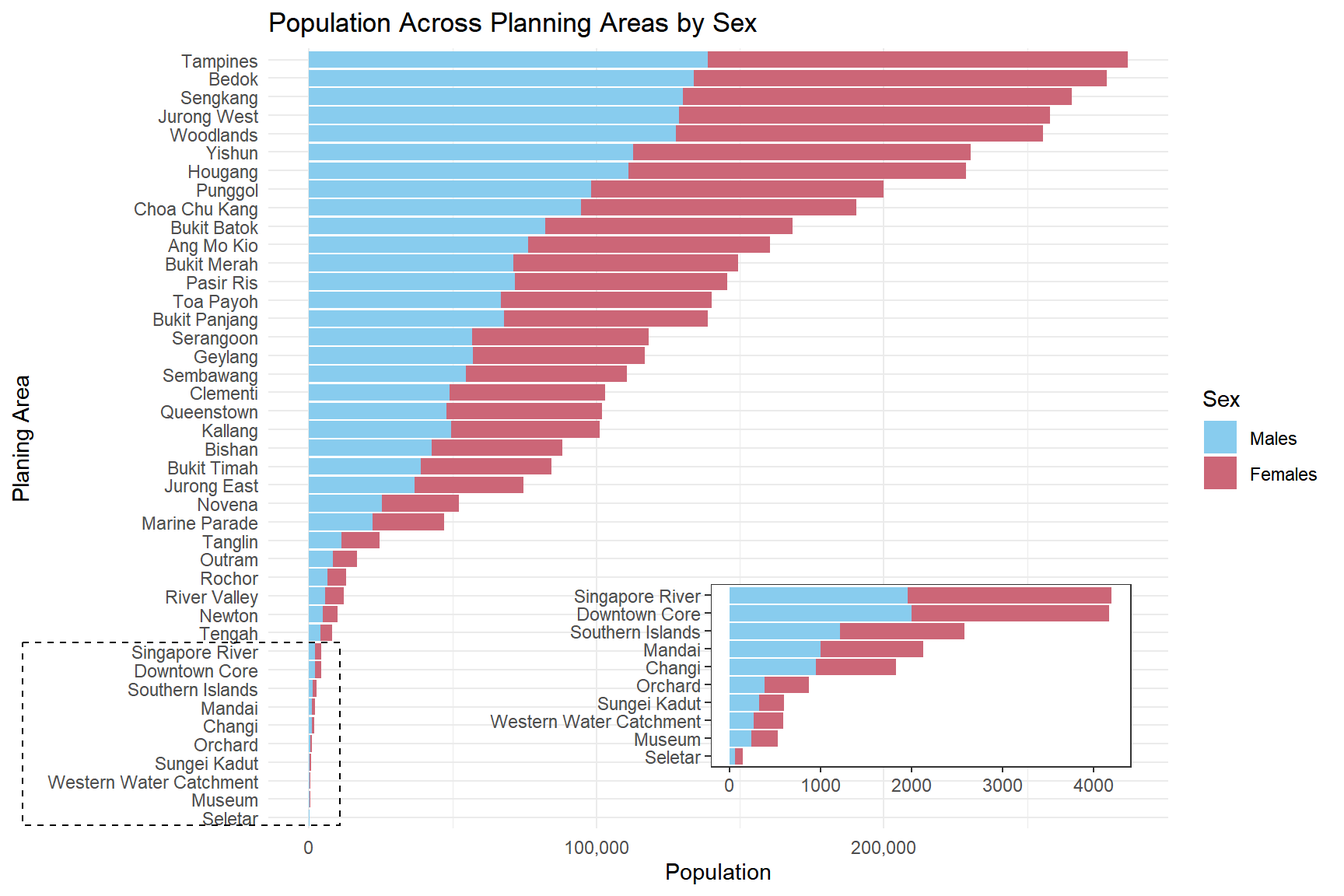
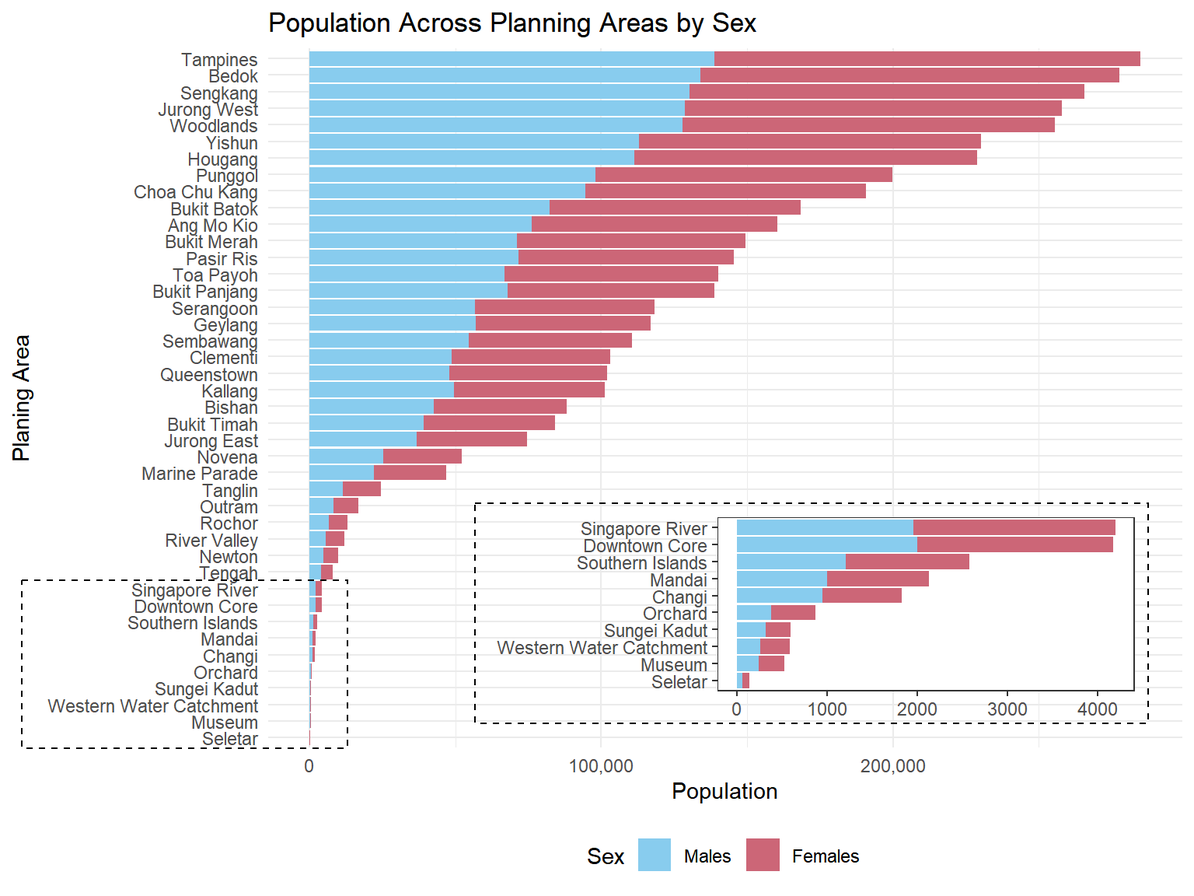
edit

diff --git a/_site/Take-home_Ex/Take-home_Ex01/Take-home_Ex01.html b/_site/Take-home_Ex/Take-home_Ex01/Take-home_Ex01.html
@@ -949,7 +949,7 @@ Code
 <div class="cell-output-display">
 <div>
 <figure class="figure">
-<p><img src="Take-home_Ex01_files/figure-html/unnamed-chunk-13-1.png" class="img-fluid figure-img" width="864"></p>
+<p><img src="Take-home_Ex01_files/figure-html/unnamed-chunk-13-1.png" class="img-fluid figure-img" width="768"></p>
 </figure>
 </div>
 </div>
@@ -986,41 +986,45 @@ Code
 <span id="cb15-27"><a href="#cb15-27" aria-hidden="true" tabindex="-1"></a>    ),</span>
 <span id="cb15-28"><a href="#cb15-28" aria-hidden="true" tabindex="-1"></a>    <span class="at">breaks =</span> <span class="fu">c</span>(<span class="st">"Males"</span>, <span class="st">"Females"</span>)</span>
 <span id="cb15-29"><a href="#cb15-29" aria-hidden="true" tabindex="-1"></a>  ) <span class="sc">+</span></span>
-<span id="cb15-30"><a href="#cb15-30" aria-hidden="true" tabindex="-1"></a>  <span class="fu">scale_y_continuous</span>(<span class="at">labels =</span> scales<span class="sc">::</span>comma)</span>
-<span id="cb15-31"><a href="#cb15-31" aria-hidden="true" tabindex="-1"></a></span>
-<span id="cb15-32"><a href="#cb15-32" aria-hidden="true" tabindex="-1"></a>demography_sex_bottom10 <span class="ot">&lt;-</span> demography_sex <span class="sc">%&gt;%</span></span>
-<span id="cb15-33"><a href="#cb15-33" aria-hidden="true" tabindex="-1"></a>  <span class="fu">filter</span>(PA <span class="sc">%in%</span> <span class="fu">head</span>(pa_order, <span class="dv">10</span>))</span>
+<span id="cb15-30"><a href="#cb15-30" aria-hidden="true" tabindex="-1"></a>  <span class="fu">scale_y_continuous</span>(<span class="at">labels =</span> scales<span class="sc">::</span>comma) <span class="sc">+</span></span>
+<span id="cb15-31"><a href="#cb15-31" aria-hidden="true" tabindex="-1"></a>  <span class="fu">theme</span>(</span>
+<span id="cb15-32"><a href="#cb15-32" aria-hidden="true" tabindex="-1"></a>    <span class="at">legend.position =</span> <span class="st">"bottom"</span></span>
+<span id="cb15-33"><a href="#cb15-33" aria-hidden="true" tabindex="-1"></a>  )</span>
 <span id="cb15-34"><a href="#cb15-34" aria-hidden="true" tabindex="-1"></a></span>
-<span id="cb15-35"><a href="#cb15-35" aria-hidden="true" tabindex="-1"></a>s2 <span class="ot">&lt;-</span> <span class="fu">ggplot</span>(<span class="at">data =</span> demography_sex_bottom10, </span>
-<span id="cb15-36"><a href="#cb15-36" aria-hidden="true" tabindex="-1"></a>       <span class="fu">aes</span>(<span class="at">x =</span> PA, <span class="at">y =</span> Pop, <span class="at">fill =</span> Sex)) <span class="sc">+</span></span>
-<span id="cb15-37"><a href="#cb15-37" aria-hidden="true" tabindex="-1"></a>  <span class="fu">geom_bar</span>(<span class="at">stat =</span> <span class="st">"identity"</span>, <span class="at">position =</span> <span class="st">"stack"</span>) <span class="sc">+</span></span>
-<span id="cb15-38"><a href="#cb15-38" aria-hidden="true" tabindex="-1"></a>  <span class="fu">coord_flip</span>() <span class="sc">+</span></span>
-<span id="cb15-39"><a href="#cb15-39" aria-hidden="true" tabindex="-1"></a>  <span class="fu">theme_test</span>() <span class="sc">+</span></span>
-<span id="cb15-40"><a href="#cb15-40" aria-hidden="true" tabindex="-1"></a>  <span class="fu">labs</span>(</span>
-<span id="cb15-41"><a href="#cb15-41" aria-hidden="true" tabindex="-1"></a>    <span class="at">x =</span> <span class="cn">NULL</span>,</span>
-<span id="cb15-42"><a href="#cb15-42" aria-hidden="true" tabindex="-1"></a>    <span class="at">y =</span> <span class="cn">NULL</span></span>
-<span id="cb15-43"><a href="#cb15-43" aria-hidden="true" tabindex="-1"></a>  ) <span class="sc">+</span></span>
-<span id="cb15-44"><a href="#cb15-44" aria-hidden="true" tabindex="-1"></a>  <span class="fu">scale_fill_manual</span>(</span>
-<span id="cb15-45"><a href="#cb15-45" aria-hidden="true" tabindex="-1"></a>    <span class="at">values =</span> <span class="fu">c</span>(</span>
-<span id="cb15-46"><a href="#cb15-46" aria-hidden="true" tabindex="-1"></a>      <span class="st">"Males"</span> <span class="ot">=</span> <span class="st">"#88CCEE"</span>,</span>
-<span id="cb15-47"><a href="#cb15-47" aria-hidden="true" tabindex="-1"></a>      <span class="st">"Females"</span> <span class="ot">=</span> <span class="st">"#CC6677"</span></span>
-<span id="cb15-48"><a href="#cb15-48" aria-hidden="true" tabindex="-1"></a>    ),</span>
-<span id="cb15-49"><a href="#cb15-49" aria-hidden="true" tabindex="-1"></a>    <span class="at">breaks =</span> <span class="fu">c</span>(<span class="st">"Males"</span>, <span class="st">"Females"</span>)</span>
-<span id="cb15-50"><a href="#cb15-50" aria-hidden="true" tabindex="-1"></a>  ) <span class="sc">+</span></span>
-<span id="cb15-51"><a href="#cb15-51" aria-hidden="true" tabindex="-1"></a>  <span class="fu">theme</span>(</span>
-<span id="cb15-52"><a href="#cb15-52" aria-hidden="true" tabindex="-1"></a>    <span class="at">legend.position =</span> <span class="st">"none"</span>,</span>
-<span id="cb15-53"><a href="#cb15-53" aria-hidden="true" tabindex="-1"></a>    <span class="at">plot.background =</span> <span class="fu">element_rect</span>(<span class="at">fill =</span> <span class="st">"transparent"</span>, <span class="at">colour =</span> <span class="cn">NA</span>)</span>
-<span id="cb15-54"><a href="#cb15-54" aria-hidden="true" tabindex="-1"></a>  )</span>
-<span id="cb15-55"><a href="#cb15-55" aria-hidden="true" tabindex="-1"></a></span>
-<span id="cb15-56"><a href="#cb15-56" aria-hidden="true" tabindex="-1"></a>zoom_rect <span class="ot">&lt;-</span> <span class="fu">ggplot</span>() <span class="sc">+</span></span>
-<span id="cb15-57"><a href="#cb15-57" aria-hidden="true" tabindex="-1"></a>  <span class="fu">geom_rect</span>(<span class="fu">aes</span>(<span class="at">xmin =</span> <span class="dv">0</span>, <span class="at">xmax =</span> <span class="dv">1</span>, <span class="at">ymin =</span> <span class="dv">0</span>, <span class="at">ymax =</span> <span class="dv">1</span>),</span>
-<span id="cb15-58"><a href="#cb15-58" aria-hidden="true" tabindex="-1"></a>            <span class="at">fill =</span> <span class="cn">NA</span>, <span class="at">color =</span> <span class="st">"black"</span>, <span class="at">linetype =</span> <span class="st">"dashed"</span>) <span class="sc">+</span></span>
-<span id="cb15-59"><a href="#cb15-59" aria-hidden="true" tabindex="-1"></a>  <span class="fu">theme_void</span>()</span>
-<span id="cb15-60"><a href="#cb15-60" aria-hidden="true" tabindex="-1"></a></span>
-<span id="cb15-61"><a href="#cb15-61" aria-hidden="true" tabindex="-1"></a><span class="fu">ggdraw</span>() <span class="sc">+</span></span>
-<span id="cb15-62"><a href="#cb15-62" aria-hidden="true" tabindex="-1"></a>  <span class="fu">draw_plot</span>(s1, <span class="dv">0</span>, <span class="dv">0</span>, <span class="dv">1</span>, <span class="dv">1</span>) <span class="sc">+</span></span>
-<span id="cb15-63"><a href="#cb15-63" aria-hidden="true" tabindex="-1"></a>  <span class="fu">draw_plot</span>(s2, <span class="fl">0.35</span>, <span class="fl">0.1</span>, <span class="fl">0.5</span>, <span class="fl">0.26</span>) <span class="sc">+</span></span>
-<span id="cb15-64"><a href="#cb15-64" aria-hidden="true" tabindex="-1"></a>  <span class="fu">draw_plot</span>(zoom_rect, <span class="fl">0.005</span>, <span class="fl">0.068</span>, <span class="fl">0.26</span>, <span class="fl">0.225</span>)</span></code><button title="Copy to Clipboard" class="code-copy-button"><i class="bi"></i></button></pre></div>
+<span id="cb15-35"><a href="#cb15-35" aria-hidden="true" tabindex="-1"></a>demography_sex_bottom10 <span class="ot">&lt;-</span> demography_sex <span class="sc">%&gt;%</span></span>
+<span id="cb15-36"><a href="#cb15-36" aria-hidden="true" tabindex="-1"></a>  <span class="fu">filter</span>(PA <span class="sc">%in%</span> <span class="fu">head</span>(pa_order, <span class="dv">10</span>))</span>
+<span id="cb15-37"><a href="#cb15-37" aria-hidden="true" tabindex="-1"></a></span>
+<span id="cb15-38"><a href="#cb15-38" aria-hidden="true" tabindex="-1"></a>s2 <span class="ot">&lt;-</span> <span class="fu">ggplot</span>(<span class="at">data =</span> demography_sex_bottom10, </span>
+<span id="cb15-39"><a href="#cb15-39" aria-hidden="true" tabindex="-1"></a>       <span class="fu">aes</span>(<span class="at">x =</span> PA, <span class="at">y =</span> Pop, <span class="at">fill =</span> Sex)) <span class="sc">+</span></span>
+<span id="cb15-40"><a href="#cb15-40" aria-hidden="true" tabindex="-1"></a>  <span class="fu">geom_bar</span>(<span class="at">stat =</span> <span class="st">"identity"</span>, <span class="at">position =</span> <span class="st">"stack"</span>) <span class="sc">+</span></span>
+<span id="cb15-41"><a href="#cb15-41" aria-hidden="true" tabindex="-1"></a>  <span class="fu">coord_flip</span>() <span class="sc">+</span></span>
+<span id="cb15-42"><a href="#cb15-42" aria-hidden="true" tabindex="-1"></a>  <span class="fu">theme_test</span>() <span class="sc">+</span></span>
+<span id="cb15-43"><a href="#cb15-43" aria-hidden="true" tabindex="-1"></a>  <span class="fu">labs</span>(</span>
+<span id="cb15-44"><a href="#cb15-44" aria-hidden="true" tabindex="-1"></a>    <span class="at">x =</span> <span class="cn">NULL</span>,</span>
+<span id="cb15-45"><a href="#cb15-45" aria-hidden="true" tabindex="-1"></a>    <span class="at">y =</span> <span class="cn">NULL</span></span>
+<span id="cb15-46"><a href="#cb15-46" aria-hidden="true" tabindex="-1"></a>  ) <span class="sc">+</span></span>
+<span id="cb15-47"><a href="#cb15-47" aria-hidden="true" tabindex="-1"></a>  <span class="fu">scale_fill_manual</span>(</span>
+<span id="cb15-48"><a href="#cb15-48" aria-hidden="true" tabindex="-1"></a>    <span class="at">values =</span> <span class="fu">c</span>(</span>
+<span id="cb15-49"><a href="#cb15-49" aria-hidden="true" tabindex="-1"></a>      <span class="st">"Males"</span> <span class="ot">=</span> <span class="st">"#88CCEE"</span>,</span>
+<span id="cb15-50"><a href="#cb15-50" aria-hidden="true" tabindex="-1"></a>      <span class="st">"Females"</span> <span class="ot">=</span> <span class="st">"#CC6677"</span></span>
+<span id="cb15-51"><a href="#cb15-51" aria-hidden="true" tabindex="-1"></a>    ),</span>
+<span id="cb15-52"><a href="#cb15-52" aria-hidden="true" tabindex="-1"></a>    <span class="at">breaks =</span> <span class="fu">c</span>(<span class="st">"Males"</span>, <span class="st">"Females"</span>)</span>
+<span id="cb15-53"><a href="#cb15-53" aria-hidden="true" tabindex="-1"></a>  ) <span class="sc">+</span></span>
+<span id="cb15-54"><a href="#cb15-54" aria-hidden="true" tabindex="-1"></a>  <span class="fu">theme</span>(</span>
+<span id="cb15-55"><a href="#cb15-55" aria-hidden="true" tabindex="-1"></a>    <span class="at">legend.position =</span> <span class="st">"none"</span>,</span>
+<span id="cb15-56"><a href="#cb15-56" aria-hidden="true" tabindex="-1"></a>    <span class="at">plot.background =</span> <span class="fu">element_rect</span>(<span class="at">fill =</span> <span class="st">"transparent"</span>, <span class="at">colour =</span> <span class="cn">NA</span>)</span>
+<span id="cb15-57"><a href="#cb15-57" aria-hidden="true" tabindex="-1"></a>  )</span>
+<span id="cb15-58"><a href="#cb15-58" aria-hidden="true" tabindex="-1"></a></span>
+<span id="cb15-59"><a href="#cb15-59" aria-hidden="true" tabindex="-1"></a>zoom_rect <span class="ot">&lt;-</span> <span class="fu">ggplot</span>() <span class="sc">+</span></span>
+<span id="cb15-60"><a href="#cb15-60" aria-hidden="true" tabindex="-1"></a>  <span class="fu">geom_rect</span>(<span class="fu">aes</span>(<span class="at">xmin =</span> <span class="dv">0</span>, <span class="at">xmax =</span> <span class="dv">1</span>, <span class="at">ymin =</span> <span class="dv">0</span>, <span class="at">ymax =</span> <span class="dv">1</span>),</span>
+<span id="cb15-61"><a href="#cb15-61" aria-hidden="true" tabindex="-1"></a>            <span class="at">fill =</span> <span class="cn">NA</span>, <span class="at">color =</span> <span class="st">"black"</span>, <span class="at">linetype =</span> <span class="st">"dashed"</span>) <span class="sc">+</span></span>
+<span id="cb15-62"><a href="#cb15-62" aria-hidden="true" tabindex="-1"></a>  <span class="fu">theme_void</span>()</span>
+<span id="cb15-63"><a href="#cb15-63" aria-hidden="true" tabindex="-1"></a></span>
+<span id="cb15-64"><a href="#cb15-64" aria-hidden="true" tabindex="-1"></a><span class="fu">ggdraw</span>() <span class="sc">+</span></span>
+<span id="cb15-65"><a href="#cb15-65" aria-hidden="true" tabindex="-1"></a>  <span class="fu">draw_plot</span>(s1, <span class="dv">0</span>, <span class="dv">0</span>, <span class="dv">1</span>, <span class="dv">1</span>) <span class="sc">+</span></span>
+<span id="cb15-66"><a href="#cb15-66" aria-hidden="true" tabindex="-1"></a>  <span class="fu">draw_plot</span>(s2, <span class="fl">0.4</span>, <span class="fl">0.185</span>, <span class="fl">0.56</span>, <span class="fl">0.25</span>) <span class="sc">+</span></span>
+<span id="cb15-67"><a href="#cb15-67" aria-hidden="true" tabindex="-1"></a>  <span class="fu">draw_plot</span>(zoom_rect, <span class="fl">0.005</span>, <span class="fl">0.155</span>, <span class="fl">0.3</span>, <span class="fl">0.206</span>) <span class="sc">+</span></span>
+<span id="cb15-68"><a href="#cb15-68" aria-hidden="true" tabindex="-1"></a>  <span class="fu">draw_plot</span>(zoom_rect, <span class="fl">0.37</span>, <span class="fl">0.18</span>, <span class="fl">0.62</span>, <span class="fl">0.27</span>) <span class="co"># (left , btm, right, top)</span></span></code><button title="Copy to Clipboard" class="code-copy-button"><i class="bi"></i></button></pre></div>
 </div>
 </div>
 </div>
@@ -1231,7 +1235,7 @@ Code
 <div class="cell-output-display">
 <div>
 <figure class="figure">
-<p><img src="Take-home_Ex01_files/figure-html/unnamed-chunk-16-1.png" class="img-fluid figure-img" width="864"></p>
+<p><img src="Take-home_Ex01_files/figure-html/unnamed-chunk-16-1.png" class="img-fluid figure-img" width="768"></p>
 </figure>
 </div>
 </div>
@@ -1261,7 +1265,10 @@ Code
 <span id="cb17-20"><a href="#cb17-20" aria-hidden="true" tabindex="-1"></a>      <span class="st">"Aged"</span> <span class="ot">=</span> <span class="st">"#AA4499"</span></span>
 <span id="cb17-21"><a href="#cb17-21" aria-hidden="true" tabindex="-1"></a>    ),</span>
 <span id="cb17-22"><a href="#cb17-22" aria-hidden="true" tabindex="-1"></a>    <span class="at">breaks =</span> <span class="fu">c</span>(<span class="st">"Young"</span>, <span class="st">"Economically_Active"</span>, <span class="st">"Aged"</span>)</span>
-<span id="cb17-23"><a href="#cb17-23" aria-hidden="true" tabindex="-1"></a>  )</span></code><button title="Copy to Clipboard" class="code-copy-button"><i class="bi"></i></button></pre></div>
+<span id="cb17-23"><a href="#cb17-23" aria-hidden="true" tabindex="-1"></a>  ) <span class="sc">+</span></span>
+<span id="cb17-24"><a href="#cb17-24" aria-hidden="true" tabindex="-1"></a>  <span class="fu">theme</span>(</span>
+<span id="cb17-25"><a href="#cb17-25" aria-hidden="true" tabindex="-1"></a>    <span class="at">legend.position =</span> <span class="st">"bottom"</span></span>
+<span id="cb17-26"><a href="#cb17-26" aria-hidden="true" tabindex="-1"></a>  )</span></code><button title="Copy to Clipboard" class="code-copy-button"><i class="bi"></i></button></pre></div>
 </div>
 </div>
 </div>
@@ -1907,7 +1914,7 @@ Code
 <div class="cell-output-display">
 <div>
 <figure class="figure">
-<p><img src="Take-home_Ex01_files/figure-html/unnamed-chunk-27-1.png" class="img-fluid figure-img" width="864"></p>
+<p><img src="Take-home_Ex01_files/figure-html/unnamed-chunk-27-1.png" class="img-fluid figure-img" width="768"></p>
 </figure>
 </div>
 </div>
@@ -1935,35 +1942,39 @@ Code
 <span id="cb32-18"><a href="#cb32-18" aria-hidden="true" tabindex="-1"></a>      <span class="st">"Females"</span> <span class="ot">=</span> <span class="st">"#CC6677"</span>),</span>
 <span id="cb32-19"><a href="#cb32-19" aria-hidden="true" tabindex="-1"></a>    <span class="at">breaks =</span> <span class="fu">c</span>(<span class="st">"Males"</span>, <span class="st">"Females"</span>)</span>
 <span id="cb32-20"><a href="#cb32-20" aria-hidden="true" tabindex="-1"></a>  ) <span class="sc">+</span></span>
-<span id="cb32-21"><a href="#cb32-21" aria-hidden="true" tabindex="-1"></a>  <span class="fu">theme</span>(<span class="at">axis.text.x =</span> <span class="fu">element_blank</span>()) <span class="sc">+</span></span>
-<span id="cb32-22"><a href="#cb32-22" aria-hidden="true" tabindex="-1"></a>  <span class="fu">scale_y_continuous</span>(<span class="at">breaks =</span> <span class="fu">seq</span>(<span class="dv">0</span>, <span class="dv">90</span>, <span class="at">by =</span> <span class="dv">10</span>))</span>
-<span id="cb32-23"><a href="#cb32-23" aria-hidden="true" tabindex="-1"></a></span>
-<span id="cb32-24"><a href="#cb32-24" aria-hidden="true" tabindex="-1"></a>p2 <span class="ot">&lt;-</span> <span class="fu">ggplot</span>(pct_total_by_sex, <span class="fu">aes</span>(<span class="at">x =</span> <span class="st">""</span>, <span class="at">y =</span> Pct_Sex, <span class="at">fill =</span> Sex)) <span class="sc">+</span></span>
-<span id="cb32-25"><a href="#cb32-25" aria-hidden="true" tabindex="-1"></a>  <span class="fu">geom_bar</span>(<span class="at">stat =</span> <span class="st">"identity"</span>, <span class="at">color =</span> <span class="st">"black"</span>) <span class="sc">+</span></span>
-<span id="cb32-26"><a href="#cb32-26" aria-hidden="true" tabindex="-1"></a>  <span class="fu">coord_polar</span>(<span class="st">"y"</span>) <span class="sc">+</span></span>
-<span id="cb32-27"><a href="#cb32-27" aria-hidden="true" tabindex="-1"></a>  <span class="fu">theme_test</span>() <span class="sc">+</span></span>
-<span id="cb32-28"><a href="#cb32-28" aria-hidden="true" tabindex="-1"></a>  <span class="fu">labs</span>(<span class="at">title =</span> <span class="st">"Population by Sex"</span>) <span class="sc">+</span></span>
-<span id="cb32-29"><a href="#cb32-29" aria-hidden="true" tabindex="-1"></a>  <span class="fu">scale_fill_manual</span>(</span>
-<span id="cb32-30"><a href="#cb32-30" aria-hidden="true" tabindex="-1"></a>    <span class="at">values =</span> <span class="fu">c</span>(<span class="st">"Males"</span> <span class="ot">=</span> <span class="st">"#88CCEE"</span>, <span class="st">"Females"</span> <span class="ot">=</span> <span class="st">"#CC6677"</span>)</span>
-<span id="cb32-31"><a href="#cb32-31" aria-hidden="true" tabindex="-1"></a>  ) <span class="sc">+</span></span>
-<span id="cb32-32"><a href="#cb32-32" aria-hidden="true" tabindex="-1"></a>  <span class="fu">labs</span>(</span>
-<span id="cb32-33"><a href="#cb32-33" aria-hidden="true" tabindex="-1"></a>    <span class="at">x =</span> <span class="cn">NULL</span>,</span>
-<span id="cb32-34"><a href="#cb32-34" aria-hidden="true" tabindex="-1"></a>    <span class="at">y =</span> <span class="cn">NULL</span></span>
+<span id="cb32-21"><a href="#cb32-21" aria-hidden="true" tabindex="-1"></a>  <span class="fu">theme</span>(</span>
+<span id="cb32-22"><a href="#cb32-22" aria-hidden="true" tabindex="-1"></a>    <span class="at">axis.text.x =</span> <span class="fu">element_blank</span>(),</span>
+<span id="cb32-23"><a href="#cb32-23" aria-hidden="true" tabindex="-1"></a>    <span class="at">legend.position =</span> <span class="st">"top"</span></span>
+<span id="cb32-24"><a href="#cb32-24" aria-hidden="true" tabindex="-1"></a>  ) <span class="sc">+</span></span>
+<span id="cb32-25"><a href="#cb32-25" aria-hidden="true" tabindex="-1"></a>  <span class="fu">scale_y_continuous</span>(<span class="at">breaks =</span> <span class="fu">seq</span>(<span class="dv">0</span>, <span class="dv">90</span>, <span class="at">by =</span> <span class="dv">10</span>))</span>
+<span id="cb32-26"><a href="#cb32-26" aria-hidden="true" tabindex="-1"></a></span>
+<span id="cb32-27"><a href="#cb32-27" aria-hidden="true" tabindex="-1"></a>p2 <span class="ot">&lt;-</span> <span class="fu">ggplot</span>(pct_total_by_sex, <span class="fu">aes</span>(<span class="at">x =</span> <span class="st">""</span>, <span class="at">y =</span> Pct_Sex, <span class="at">fill =</span> Sex)) <span class="sc">+</span></span>
+<span id="cb32-28"><a href="#cb32-28" aria-hidden="true" tabindex="-1"></a>  <span class="fu">geom_bar</span>(<span class="at">stat =</span> <span class="st">"identity"</span>, <span class="at">color =</span> <span class="st">"black"</span>, <span class="at">alpha =</span> <span class="fl">0.5</span>) <span class="sc">+</span></span>
+<span id="cb32-29"><a href="#cb32-29" aria-hidden="true" tabindex="-1"></a>  <span class="fu">coord_polar</span>(<span class="st">"y"</span>) <span class="sc">+</span></span>
+<span id="cb32-30"><a href="#cb32-30" aria-hidden="true" tabindex="-1"></a>  <span class="fu">theme_test</span>() <span class="sc">+</span></span>
+<span id="cb32-31"><a href="#cb32-31" aria-hidden="true" tabindex="-1"></a>  <span class="fu">labs</span>(<span class="at">title =</span> <span class="st">"Population by Sex"</span>) <span class="sc">+</span></span>
+<span id="cb32-32"><a href="#cb32-32" aria-hidden="true" tabindex="-1"></a>  <span class="fu">scale_fill_manual</span>(</span>
+<span id="cb32-33"><a href="#cb32-33" aria-hidden="true" tabindex="-1"></a>    <span class="at">values =</span> <span class="fu">c</span>(<span class="st">"Males"</span> <span class="ot">=</span> <span class="st">"#88CCEE"</span>,</span>
+<span id="cb32-34"><a href="#cb32-34" aria-hidden="true" tabindex="-1"></a>               <span class="st">"Females"</span> <span class="ot">=</span> <span class="st">"#CC6677"</span>)</span>
 <span id="cb32-35"><a href="#cb32-35" aria-hidden="true" tabindex="-1"></a>  ) <span class="sc">+</span></span>
-<span id="cb32-36"><a href="#cb32-36" aria-hidden="true" tabindex="-1"></a>  <span class="fu">geom_text</span>(<span class="fu">aes</span>(<span class="at">y =</span> ypos, <span class="at">label =</span> label), <span class="at">color =</span> <span class="st">"black"</span>, <span class="at">size =</span> <span class="dv">4</span>) <span class="sc">+</span></span>
-<span id="cb32-37"><a href="#cb32-37" aria-hidden="true" tabindex="-1"></a>  <span class="fu">theme</span>(</span>
-<span id="cb32-38"><a href="#cb32-38" aria-hidden="true" tabindex="-1"></a>    <span class="at">legend.position =</span> <span class="st">"none"</span>,</span>
-<span id="cb32-39"><a href="#cb32-39" aria-hidden="true" tabindex="-1"></a>    <span class="at">panel.grid.major =</span> <span class="fu">element_blank</span>(),</span>
-<span id="cb32-40"><a href="#cb32-40" aria-hidden="true" tabindex="-1"></a>    <span class="at">panel.grid.minor=</span> <span class="fu">element_blank</span>(),</span>
-<span id="cb32-41"><a href="#cb32-41" aria-hidden="true" tabindex="-1"></a>    <span class="at">axis.text.x =</span> <span class="fu">element_blank</span>(),</span>
-<span id="cb32-42"><a href="#cb32-42" aria-hidden="true" tabindex="-1"></a>    <span class="at">axis.ticks =</span> <span class="fu">element_blank</span>()</span>
-<span id="cb32-43"><a href="#cb32-43" aria-hidden="true" tabindex="-1"></a>  )</span>
-<span id="cb32-44"><a href="#cb32-44" aria-hidden="true" tabindex="-1"></a></span>
-<span id="cb32-45"><a href="#cb32-45" aria-hidden="true" tabindex="-1"></a>p1 <span class="sc">+</span> <span class="fu">inset_element</span>(p2,</span>
-<span id="cb32-46"><a href="#cb32-46" aria-hidden="true" tabindex="-1"></a>                   <span class="at">left =</span> .<span class="dv">7</span>,</span>
-<span id="cb32-47"><a href="#cb32-47" aria-hidden="true" tabindex="-1"></a>                   <span class="at">bottom =</span> <span class="fl">0.6</span>,</span>
-<span id="cb32-48"><a href="#cb32-48" aria-hidden="true" tabindex="-1"></a>                   <span class="at">right =</span> <span class="fl">1.3</span>,</span>
-<span id="cb32-49"><a href="#cb32-49" aria-hidden="true" tabindex="-1"></a>                   <span class="at">top =</span> <span class="fl">1.05</span>)</span></code><button title="Copy to Clipboard" class="code-copy-button"><i class="bi"></i></button></pre></div>
+<span id="cb32-36"><a href="#cb32-36" aria-hidden="true" tabindex="-1"></a>  <span class="fu">labs</span>(</span>
+<span id="cb32-37"><a href="#cb32-37" aria-hidden="true" tabindex="-1"></a>    <span class="at">x =</span> <span class="cn">NULL</span>,</span>
+<span id="cb32-38"><a href="#cb32-38" aria-hidden="true" tabindex="-1"></a>    <span class="at">y =</span> <span class="cn">NULL</span></span>
+<span id="cb32-39"><a href="#cb32-39" aria-hidden="true" tabindex="-1"></a>  ) <span class="sc">+</span></span>
+<span id="cb32-40"><a href="#cb32-40" aria-hidden="true" tabindex="-1"></a>  <span class="fu">geom_text</span>(<span class="fu">aes</span>(<span class="at">y =</span> ypos, <span class="at">label =</span> label), <span class="at">color =</span> <span class="st">"black"</span>, <span class="at">size =</span> <span class="dv">4</span>) <span class="sc">+</span></span>
+<span id="cb32-41"><a href="#cb32-41" aria-hidden="true" tabindex="-1"></a>  <span class="fu">theme</span>(</span>
+<span id="cb32-42"><a href="#cb32-42" aria-hidden="true" tabindex="-1"></a>    <span class="at">legend.position =</span> <span class="st">"none"</span>,</span>
+<span id="cb32-43"><a href="#cb32-43" aria-hidden="true" tabindex="-1"></a>    <span class="at">panel.grid.major =</span> <span class="fu">element_blank</span>(),</span>
+<span id="cb32-44"><a href="#cb32-44" aria-hidden="true" tabindex="-1"></a>    <span class="at">panel.grid.minor=</span> <span class="fu">element_blank</span>(),</span>
+<span id="cb32-45"><a href="#cb32-45" aria-hidden="true" tabindex="-1"></a>    <span class="at">axis.text.x =</span> <span class="fu">element_blank</span>(),</span>
+<span id="cb32-46"><a href="#cb32-46" aria-hidden="true" tabindex="-1"></a>    <span class="at">axis.ticks =</span> <span class="fu">element_blank</span>()</span>
+<span id="cb32-47"><a href="#cb32-47" aria-hidden="true" tabindex="-1"></a>  )</span>
+<span id="cb32-48"><a href="#cb32-48" aria-hidden="true" tabindex="-1"></a></span>
+<span id="cb32-49"><a href="#cb32-49" aria-hidden="true" tabindex="-1"></a>p1 <span class="sc">+</span> <span class="fu">inset_element</span>(p2,</span>
+<span id="cb32-50"><a href="#cb32-50" aria-hidden="true" tabindex="-1"></a>                   <span class="at">left =</span> <span class="fl">0.48</span>,</span>
+<span id="cb32-51"><a href="#cb32-51" aria-hidden="true" tabindex="-1"></a>                   <span class="at">bottom =</span> <span class="fl">0.76</span>,</span>
+<span id="cb32-52"><a href="#cb32-52" aria-hidden="true" tabindex="-1"></a>                   <span class="at">right =</span> <span class="fl">1.3</span>,</span>
+<span id="cb32-53"><a href="#cb32-53" aria-hidden="true" tabindex="-1"></a>                   <span class="at">top =</span> <span class="fl">1.2</span>)</span></code><button title="Copy to Clipboard" class="code-copy-button"><i class="bi"></i></button></pre></div>
 </div>
 </div>
 </div>
